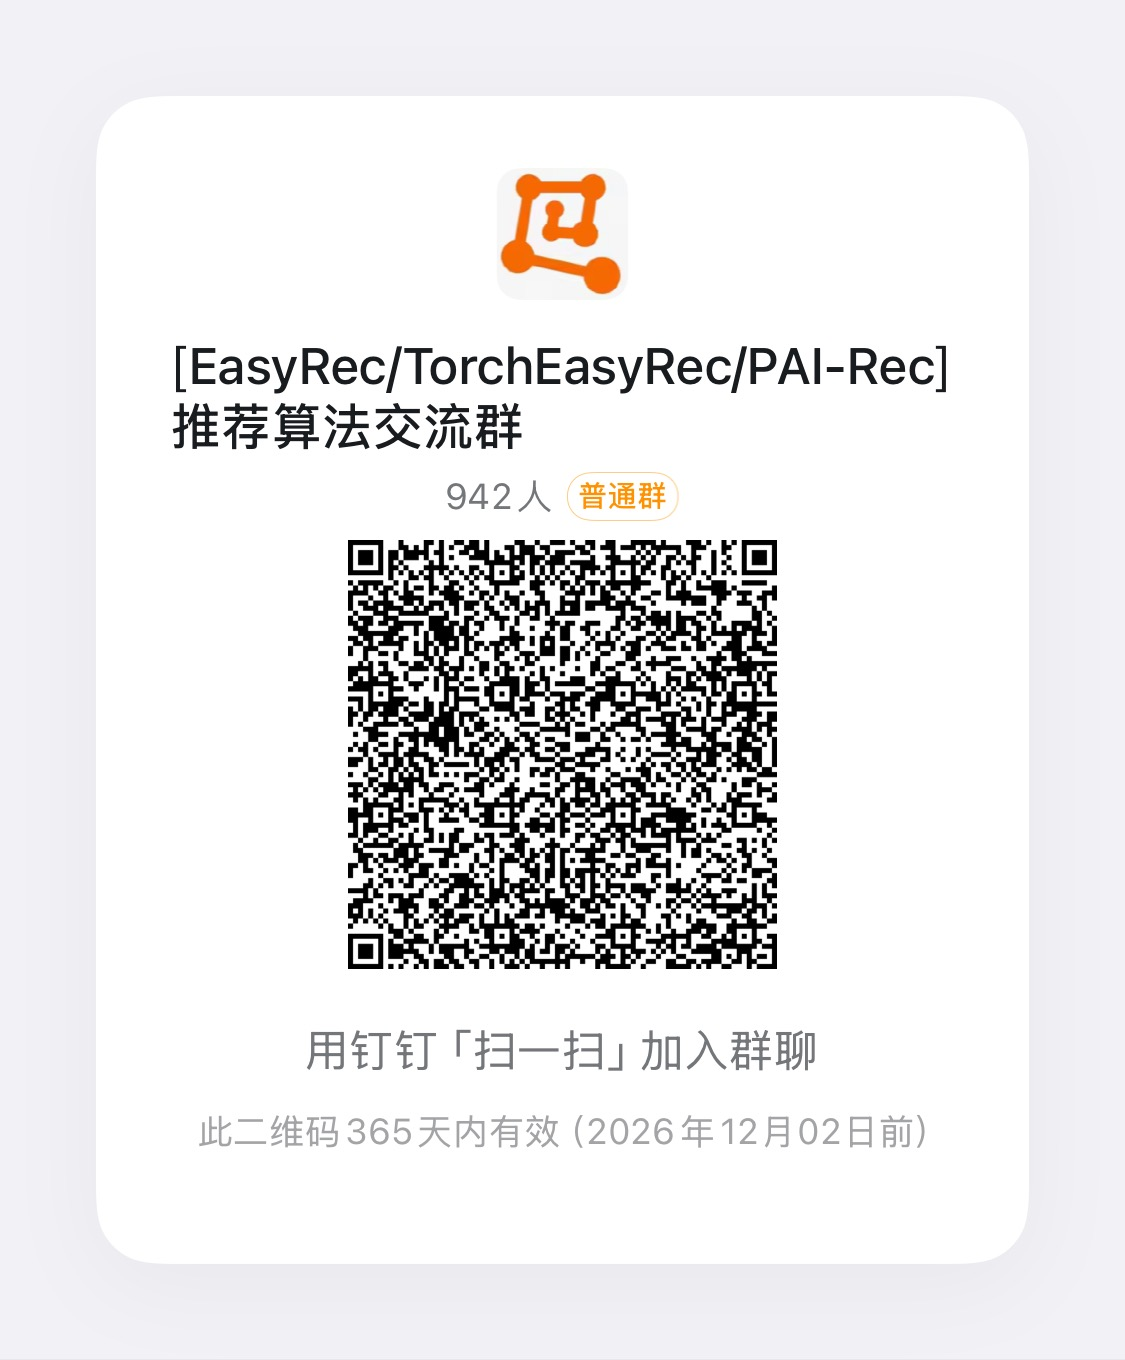
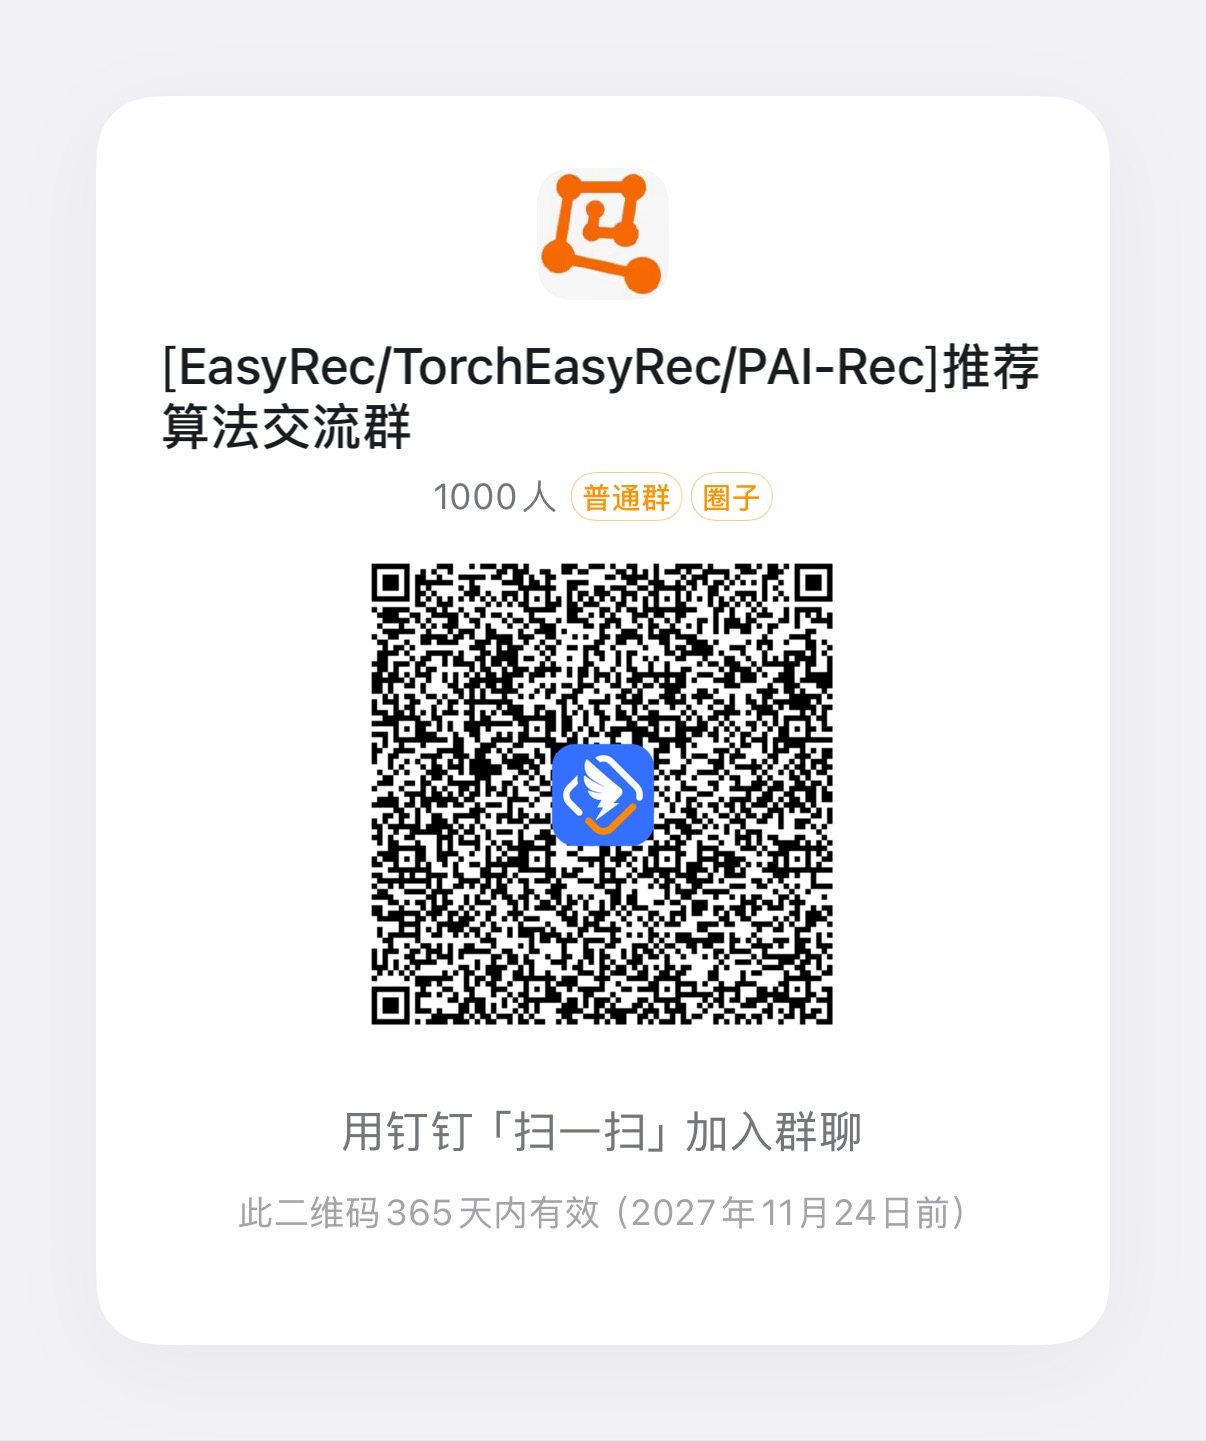
[doc] refresh DingTalk group invitations (#767)

Changed region(s): [[0.1244, 0.1235, 0.8711, 0.7103], [0.1867, 0.7412, 0.8089, 0.8647]]

diff --git a/README.md b/README.md
@@ -127,8 +127,8 @@ For the complete documentation, please refer to https://torcheasyrec.readthedocs
 
 - **DingTalk Groups**
 
-  - DingDing Group: 32260796 - [Join](https://h5.dingtalk.com/circle/joinCircle.html?corpId=ding1fe214a7fea14f55a39a90f97fcb1e09&token=a970cf981a8cd15424aeb839c0fdc2a4&groupCode=v1,k1,QH4dGSsGXXWW+onmBBumO1U9mQElyRKWi2x16a6oTVY=&from=group&ext=%7B%22channel%22%3A%22QR_GROUP_NORMAL%22%2C%22extension%22%3A%7B%22groupCode%22%3A%22v1%2Ck1%2CQH4dGSsGXXWW%2BonmBBumO1U9mQElyRKWi2x16a6oTVY%3D%22%2C%22groupFrom%22%3A%22group%22%7D%2C%22inviteId%22%3A75657307%2C%22orgId%22%3A644683226%2C%22shareType%22%3A%22GROUP%22%7D&origin=11)
-  - DingDing Group2: 37930014162 - [Join](https://h5.dingtalk.com/circle/joinCircle.html?corpId=ding1fe214a7fea14f55a39a90f97fcb1e09&token=a970cf981a8cd15424aeb839c0fdc2a4&groupCode=v1,k1,qTwau91MJZmxUClHh77gCsgcLASX0/eyhysrOf+8emQ=&from=group&ext=%7B%22channel%22%3A%22QR_GROUP_NORMAL%22%2C%22extension%22%3A%7B%22groupCode%22%3A%22v1%2Ck1%2CqTwau91MJZmxUClHh77gCsgcLASX0%2FeyhysrOf%2B8emQ%3D%22%2C%22groupFrom%22%3A%22group%22%7D%2C%22inviteId%22%3A75657307%2C%22orgId%22%3A644683226%2C%22shareType%22%3A%22GROUP%22%7D&origin=11)
+  - DingDing Group: 32260796 - [Join](https://h5.dingtalk.com/circle/joinCircle.html?corpId=ding1fe214a7fea14f55a39a90f97fcb1e09&token=a970cf981a8cd15424aeb839c0fdc2a4&groupCode=v1,k1,yv++i4FHkROW+onmBBumO7vXzjzVid0Cm/hB3Sf5sNY=&from=group&ext=%7B%22channel%22%3A%22QR_GROUP_NORMAL%22%2C%22extension%22%3A%7B%22groupCode%22%3A%22v1%2Ck1%2Cyv%2B%2Bi4FHkROW%2BonmBBumO7vXzjzVid0Cm%2FhB3Sf5sNY%3D%22%2C%22groupFrom%22%3A%22group%22%7D%2C%22inviteId%22%3A75657307%2C%22orgId%22%3A644683226%2C%22shareType%22%3A%22GROUP%22%7D&origin=11)
+  - DingDing Group2: 37930014162 - [Join](https://h5.dingtalk.com/circle/joinCircle.html?corpId=ding1fe214a7fea14f55a39a90f97fcb1e09&token=a970cf981a8cd15424aeb839c0fdc2a4&groupCode=v1,k1,a3Dxk2tBfMaxUClHh77gCj8n2vRIT74RXx74IKyzV9A=&from=group&ext=%7B%22channel%22%3A%22QR_GROUP_NORMAL%22%2C%22extension%22%3A%7B%22groupCode%22%3A%22v1%2Ck1%2Ca3Dxk2tBfMaxUClHh77gCj8n2vRIT74RXx74IKyzV9A%3D%22%2C%22groupFrom%22%3A%22group%22%7D%2C%22inviteId%22%3A75657307%2C%22orgId%22%3A644683226%2C%22shareType%22%3A%22GROUP%22%7D&origin=11)
 
   <img src="docs/images/qrcode/dinggroup1.JPG" alt="dingroup1" width="350">
     <img src="docs/images/qrcode/dinggroup2.JPG" alt="dingroup2" width="350">
